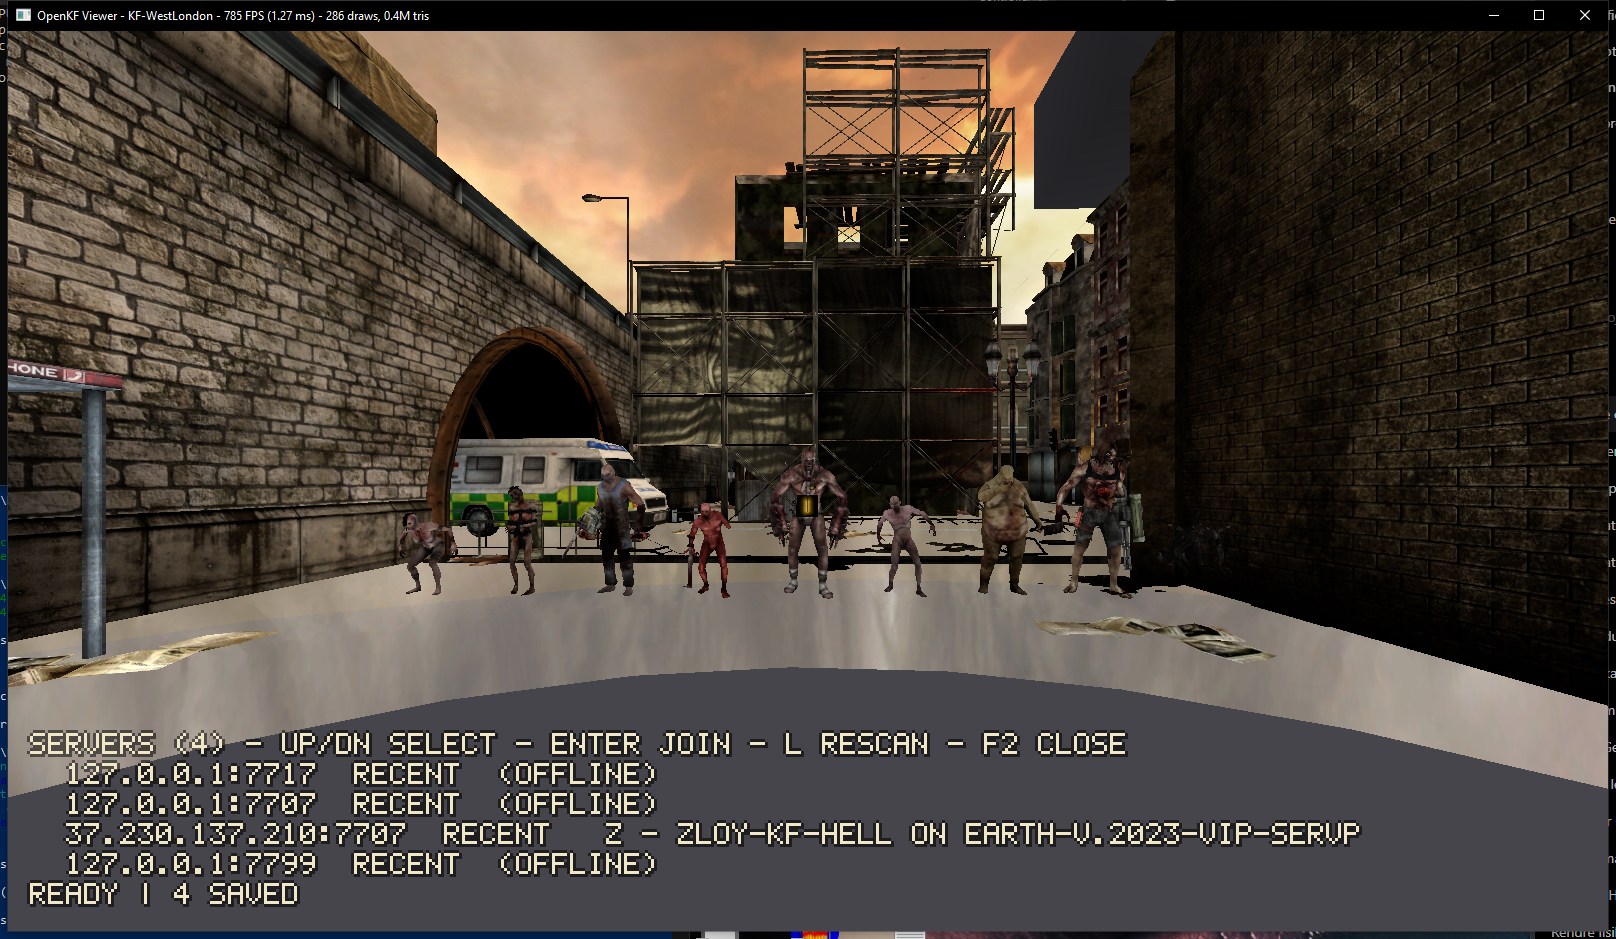
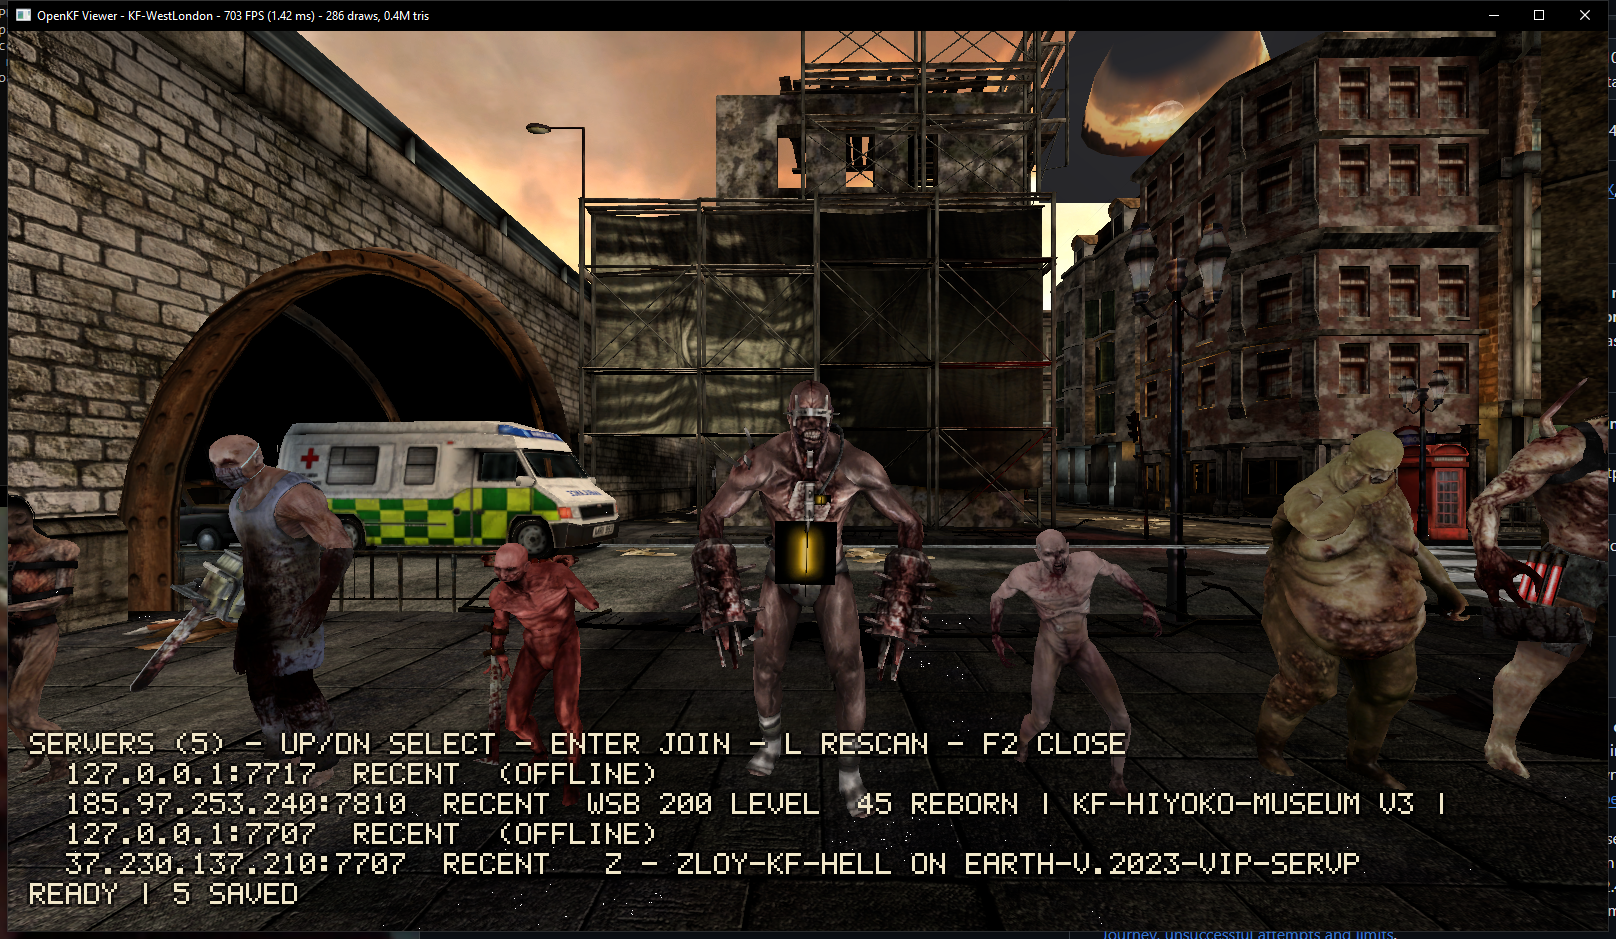
Fix BSP floors culled by winding (Newell per-node alignment), refresh screenshots

diff --git a/crates/openkf-viewer/src/scene.rs b/crates/openkf-viewer/src/scene.rs
@@ -161,6 +161,9 @@ pub fn load_scene(kf_dir: &Path, rom: &Path, bc_supported: bool, zeds: bool, poo
         }
         let (tw, th) = tex.map(|t| tt.sizes[t]).unwrap_or((256, 256));
         // Positions + lightmap UVs from the render section when available.
+        // NOTE: the section's stored diffuse `uv` is NOT texel-scale (0..1-ish
+        // on most nodes, garbage-scale on others), so diffuse UVs always come
+        // from the surf-vector recompute below.
         let mut lm_index = -1;
         let verts: Vec<([f32; 3], [f32; 2])> = match model.sections.get(n.i_section.max(0) as usize).filter(|_| use_sections && n.i_section >= 0) {
             Some(sec) if (n.i_first_vertex.max(0) as usize + n.num_vertices as usize) <= sec.vertices.len() => {
@@ -197,8 +200,37 @@ pub fn load_scene(kf_dir: &Path, rom: &Path, bc_supported: bool, zeds: bool, poo
             let uv = model.texel_uv(s, p);
             e.0.push(Vertex { pos: conv(p), nrm: normal, uv: [uv[0] / tw as f32, uv[1] / th as f32], light, lm_uv: lm });
         }
+        // Section vertex order varies per node (additive vs subtractive brushes),
+        // so align the fan winding with the SURF normal (the node's split
+        // plane may point either way); otherwise whole floors are
+        // backface-culled and the sky shows through.
+        let facing = model.vectors.get(s.v_normal as usize).map(|v| conv(*v)).unwrap_or(normal);
+        // Newell's method over the whole polygon: robust even when the first
+        // fan triangle is degenerate (repeated/collinear verts), which a
+        // single-triangle test misreads (leaving floors culled).
+        let flip = if verts.len() >= 3 {
+            let mut n = [0.0f32; 3];
+            for i in 0..verts.len() {
+                let a = conv(verts[i].0);
+                let b = conv(verts[(i + 1) % verts.len()].0);
+                n[0] += (a[1] - b[1]) * (a[2] + b[2]);
+                n[1] += (a[2] - b[2]) * (a[0] + b[0]);
+                n[2] += (a[0] - b[0]) * (a[1] + b[1]);
+            }
+            n[0] * facing[0] + n[1] * facing[1] + n[2] * facing[2] < 0.0
+        } else {
+            false
+        };
+        if std::env::var_os("OPENKF_DEBUG").is_some() && normal[1] > 0.9 {
+            eprintln!("[debug] floor node: surf_n=[{:.2},{:.2},{:.2}] flip={flip} mat={}",
+                facing[0], facing[1], facing[2], map.format_full_name(s.material));
+        }
         for i in 1..verts.len() as u32 - 1 {
-            e.1.extend_from_slice(&[base, base + i, base + i + 1]);
+            if flip {
+                e.1.extend_from_slice(&[base, base + i + 1, base + i]);
+            } else {
+                e.1.extend_from_slice(&[base, base + i, base + i + 1]);
+            }
         }
     }
 
@@ -310,10 +342,40 @@ pub fn load_scene(kf_dir: &Path, rom: &Path, bc_supported: bool, zeds: bool, poo
 
     let t_resolve = t0.elapsed();
     if std::env::var_os("OPENKF_DEBUG").is_some() {
+        // Which node path feeds the renderer, and is the recompute degenerate?
+        let (mut sec_ok, mut fallback) = (0usize, 0usize);
+        let mut degen_mats: std::collections::HashMap<String, usize> = std::collections::HashMap::new();
+        for n in &model.nodes {
+            if n.num_vertices < 3 || n.i_surf < 0 { continue; }
+            let on_sec = use_sections && n.i_section >= 0 && model.sections.get(n.i_section as usize).map_or(false, |s| (n.i_first_vertex.max(0) as usize + n.num_vertices as usize) <= s.vertices.len());
+            if on_sec { sec_ok += 1; continue; }
+            fallback += 1;
+            let su = &model.surfs[n.i_surf as usize];
+            let st = n.i_vert_pool.max(0) as usize;
+            if let Some(vs) = model.verts.get(st..st + n.num_vertices as usize) {
+                let uvs: Vec<[f32; 2]> = vs.iter().filter_map(|v| model.points.get(v.p_vertex as usize).map(|&p| model.texel_uv(su, p))).collect();
+                let spread = uvs.iter().fold(0.0f32, |a, u| a.max((u[0] - uvs[0][0]).abs()).max((u[1] - uvs[0][1]).abs()));
+                if uvs.len() >= 3 && spread < 0.5 {
+                    *degen_mats.entry(map.format_full_name(su.material)).or_default() += 1;
+                }
+            }
+        }
+        eprintln!("[debug] nodes: section-path {sec_ok}, fallback-path {fallback}");
+        for (i, r) in tt.refs.iter().enumerate() {
+            eprintln!("[debug] tex[{i}] = {}", r.pkg().format_full_name(r.export as i32 + 1));
+        }
+        let mut dm: Vec<_> = degen_mats.into_iter().collect();
+        dm.sort_by_key(|a| std::cmp::Reverse(a.1));
+        for (m, c) in dm.iter().take(10) { eprintln!("[debug] degenerate-uv fallback nodes: {c}x {m}"); }
         let bsp_none = polys.iter().filter(|p| surf_tex[p.surf].is_none()).count();
         let mut blends: HashMap<String, usize> = HashMap::new();
         for t in surf_tex.iter().flatten() { *blends.entry(format!("{:?}", t.1)).or_default() += 1; }
         eprintln!("[debug] BSP surf blends: {blends:?}");
+        for (i, s) in model.surfs.iter().enumerate() {
+            if matches!(surf_tex[i].map(|t| t.1), Some(b) if b != crate::assets::Blend::Opaque) {
+                eprintln!("[debug] non-opaque surf {i}: {} -> {:?} flags {:08x}", map.format_full_name(s.material), surf_tex[i].map(|t| t.1), s.poly_flags);
+            }
+        }
         eprintln!("[debug] BSP polys without texture: {bsp_none}/{}", polys.len());
         let mut none_flags: HashMap<u32, usize> = HashMap::new();
         for p in &polys { if surf_tex[p.surf].is_none() { *none_flags.entry(model.surfs[p.surf].poly_flags).or_default() += 1; } }
@@ -336,12 +398,21 @@ pub fn load_scene(kf_dir: &Path, rom: &Path, bc_supported: bool, zeds: bool, poo
                     if tn.to_ascii_lowercase().contains("fire") || tn.to_ascii_lowercase().contains("glow") || tn.to_ascii_lowercase().contains("smoke") || tn.to_ascii_lowercase().contains("fx") {
                         eprintln!("[debug] mesh {} sec {si}: {mat} -> {tn} {b:?}", me.mesh.name);
                     }
+                    if !matches!(b, crate::assets::Blend::Opaque) {
+                        eprintln!("[debug] translucent mesh {} sec {si}: {mat} -> {tn} {b:?}", me.mesh.name);
+                    }
                 }
             }
         }
         for me in &meshes {
             let n = me.section_tex.iter().filter(|t| t.is_none()).count();
             if n > 0 { eprintln!("[debug] mesh {} : {n}/{} sections untextured, {} materials", me.mesh.name, me.section_tex.len(), me.mesh.materials.len()); }
+            let chans = me.mesh.uv_channels.len();
+            let short = me.mesh.uv_channels.first().map_or(true, |u| u.len() < me.mesh.positions.len());
+            if chans == 0 || short {
+                let placements = work.iter().filter(|(mi, _, _)| meshes[*mi].mesh.name == me.mesh.name).count();
+                eprintln!("[debug] mesh {} : uv_channels={chans} short={short} verts={} placements={placements}", me.mesh.name, me.mesh.positions.len());
+            }
         }
     }
 

diff --git a/crates/openkf-viewer/src/main.rs b/crates/openkf-viewer/src/main.rs
@@ -57,6 +57,7 @@ struct Args {
     play: bool,
     browse: bool,
     bench: usize,
+    pick: Option<(u32, u32)>,
 }
 
 fn parse_args() -> Args {
@@ -78,6 +79,7 @@ fn parse_args() -> Args {
         play: false,
         browse: false,
         bench: 0,
+        pick: None,
     };
     while let Some(x) = it.next() {
         match x.as_str() {
@@ -97,6 +99,11 @@ fn parse_args() -> Args {
             "--connect" => a.connect = Some(it.next().expect("--connect host:port")),
             "--browse" => a.browse = true,
             "--bench" => a.bench = it.next().expect("--bench <frames>").parse().unwrap(),
+            "--pick" => {
+                let s = it.next().expect("--pick <px,py>");
+                let (x, y) = s.split_once(',').expect("px,py");
+                a.pick = Some((x.parse().unwrap(), y.parse().unwrap()));
+            }
             "--auth" => a.auth = PathBuf::from(it.next().expect("--auth <capture>")),
             "--name" => a.name = it.next().expect("--name <player>"),
             "--no-ready" => a.ready = false,
@@ -207,6 +214,57 @@ fn device_for(adapter: &wgpu::Adapter) -> (wgpu::Device, wgpu::Queue) {
 }
 
 // ------------------------------------------------------------------ headless
+/// Diagnostic: raycast from the camera through screen pixel (px,py) and print
+/// the nearest batch (index, blend, lightmap, uv, position). `--pick px,py`.
+fn pick_pixel(scene: &scene::Scene, cam: &Camera, w: u32, h: u32, px: u32, py: u32) {
+    let aspect = w as f32 / h.max(1) as f32;
+    let inv = cam.view_proj(aspect).inverse();
+    let ndc = glam::Vec4::new(px as f32 / w as f32 * 2.0 - 1.0, 1.0 - py as f32 / h as f32 * 2.0, 0.0, 1.0);
+    let near = inv * ndc;
+    let ro = cam.pos;
+    let rd = (glam::Vec3::new(near.x, near.y, near.z) / near.w - ro).normalize();
+    let mut hits: Vec<(f32, usize, [f32; 2], [f32; 2], [f32; 3])> = Vec::new();
+    for (bi, b) in scene.batches.iter().enumerate() {
+        for tri in b.indices.chunks_exact(3) {
+            let p = |i: u32| glam::Vec3::from(b.vertices[i as usize].pos);
+            let (v0, v1, v2) = (p(tri[0]), p(tri[1]), p(tri[2]));
+            let e1 = v1 - v0;
+            let e2 = v2 - v0;
+            let pv = rd.cross(e2);
+            let det = e1.dot(pv);
+            if det.abs() < 1e-12 { continue; }
+            let inv_det = 1.0 / det;
+            let tv = ro - v0;
+            let u = tv.dot(pv) * inv_det;
+            if !(0.0..=1.0).contains(&u) { continue; }
+            let qv = tv.cross(e1);
+            let v = rd.dot(qv) * inv_det;
+            if !(0.0..=1.0).contains(&v) || u + v > 1.0 { continue; }
+            let t = e2.dot(qv) * inv_det;
+            if t < 0.0 { continue; }
+            let w0 = 1.0 - u - v;
+            let a = &b.vertices[tri[0] as usize];
+            let bb = &b.vertices[tri[1] as usize];
+            let c = &b.vertices[tri[2] as usize];
+            let uv = [w0 * a.uv[0] + u * bb.uv[0] + v * c.uv[0], w0 * a.uv[1] + u * bb.uv[1] + v * c.uv[1]];
+            let lm = [w0 * a.lm_uv[0] + u * bb.lm_uv[0] + v * c.lm_uv[0], w0 * a.lm_uv[1] + u * bb.lm_uv[1] + v * c.lm_uv[1]];
+            let hit = (ro + rd * t).to_array();
+            if !hits.iter().any(|(ht, hbi, _, _, _)| *hbi == bi && (*ht - t).abs() < 1.0) {
+                hits.push((t, bi, uv, lm, hit));
+            }
+        }
+    }
+    hits.sort_by(|a, b| a.0.total_cmp(&b.0));
+    hits.truncate(6);
+    if hits.is_empty() {
+        println!("[Pick] ({px},{py}) no hit");
+    }
+    for (t, bi, uv, lm, hit) in hits {
+        let b = &scene.batches[bi];
+        println!("[Pick] ({px},{py}) batch {bi} blend={:?} tex={:?} lightmap={} t={t:.0} uv=[{:.2},{:.2}] lm=[{:.3},{:.3}] at [{:.0},{:.0},{:.0}] tris={}",
+            b.blend, b.texture, b.lightmap, uv[0], uv[1], lm[0], lm[1], hit[0], hit[1], hit[2], b.indices.len() / 3);
+    }
+}
 fn screenshot(args: &Args, rp: Option<&replay::Replay>, live: Option<&std::sync::Arc<std::sync::Mutex<live_view::Shared>>>, live_pool: Vec<(String, String, usize)>) {
     let inst = instance();
     let adapter = pollster::block_on(inst.request_adapter(&wgpu::RequestAdapterOptions {
@@ -377,6 +435,9 @@ fn screenshot(args: &Args, rp: Option<&replay::Replay>, live: Option<&std::sync:
     });
     let view = target.create_view(&Default::default());
     let cam = cam_override.unwrap_or_else(|| initial_camera(&scene, args));
+    if let Some((px, py)) = args.pick {
+        pick_pixel(&scene, &cam, w, h, px, py);
+    }
     let t = Instant::now();
     let verts = zeds::skin_all(&mut scene.actors, args.time);
     let skin_ms = t.elapsed().as_secs_f64() * 1e3;

diff --git a/crates/openkf-package/examples/model_dump.rs b/crates/openkf-package/examples/model_dump.rs
@@ -9,4 +9,47 @@ fn main() {
     println!("{} nodes, {} sections ({} verts), {} lightmaps {:?}, used idx {:?}, nodes out of section range: {bad_nodes}",
         m.nodes.len(), m.sections.len(), m.sections.iter().map(|s| s.vertices.len()).sum::<usize>(), m.lightmaps.len(),
         m.lightmaps.iter().map(|l| (l.width, l.dxt5)).collect::<std::collections::BTreeSet<_>>(), used);
+    for (i, s) in m.sections.iter().enumerate().take(12) {
+        let (mut mnx, mut mxx, mut mny, mut mxy) = (f32::MAX, f32::MIN, f32::MAX, f32::MIN);
+        for v in &s.vertices {
+            mnx = mnx.min(v.lightmap_uv[0]); mxx = mxx.max(v.lightmap_uv[0]);
+            mny = mny.min(v.lightmap_uv[1]); mxy = mxy.max(v.lightmap_uv[1]);
+        }
+        println!("sec {i}: lm_tex={} n={} lmuv x=[{mnx:.3},{mxx:.3}] y=[{mny:.3},{mxy:.3}]", s.light_map_texture, s.vertices.len());
+    }
+    let (mut aux, mut aux2, mut auy, mut auy2) = (f32::MAX, f32::MIN, f32::MAX, f32::MIN);
+    for s in m.sections.iter() { for v in &s.vertices {
+        aux = aux.min(v.uv[0]); aux2 = aux2.max(v.uv[0]); auy = auy.min(v.uv[1]); auy2 = auy2.max(v.uv[1]);
+    } }
+    println!("section diffuse uv global: x=[{aux:.1},{aux2:.1}] y=[{auy:.1},{auy2:.1}]");
+    // Floor nodes (plane normal ~ +Z): compare stored section UVs vs texel_uv recompute.
+    let mut shown = 0;
+    for (ni, n) in m.nodes.iter().enumerate() {
+        if n.num_vertices < 3 || n.i_surf < 0 || n.plane[2] < 0.9 { continue; }
+        let su = &m.surfs[n.i_surf as usize];
+        let sec_ok = n.i_section >= 0 && m.sections.get(n.i_section as usize).map_or(false, |s| (n.i_first_vertex.max(0) as usize + n.num_vertices as usize) <= s.vertices.len());
+        let mut stored = Vec::new();
+        let mut recomp = Vec::new();
+        if sec_ok {
+            let s = &m.sections[n.i_section as usize];
+            for v in &s.vertices[n.i_first_vertex as usize..n.i_first_vertex as usize + n.num_vertices as usize] {
+                stored.push(v.uv);
+            }
+        }
+        let st = n.i_vert_pool.max(0) as usize;
+        if let Some(vs) = m.verts.get(st..st + n.num_vertices as usize) {
+            for v in vs.iter().filter_map(|v| m.points.get(v.p_vertex as usize)) {
+                recomp.push(m.texel_uv(su, *v));
+            }
+        }
+        let spread = |u: &[[f32; 2]]| u.iter().fold(0.0f32, |a, x| a.max((x[0] - u[0][0]).abs()).max((x[1] - u[0][1]).abs()));
+        if shown < 14 {
+            println!("node {ni}: sec={} mat={} p_base={} vtu={} vtv={} stored_n={} stored_spread={:.1} recomp_n={} recomp_spread={:.1} stored0={:?}",
+                n.i_section, pkg.format_full_name(su.material), su.p_base, su.v_texture_u, su.v_texture_v,
+                stored.len(), if stored.is_empty() { -1.0 } else { spread(&stored) },
+                recomp.len(), if recomp.is_empty() { -1.0 } else { spread(&recomp) },
+                stored.first());
+            shown += 1;
+        }
+    }
 }

diff --git a/docs/HANDOFF.md b/docs/HANDOFF.md
@@ -1,3 +1,23 @@
+# Handoff (2026-10-30, night — v1.10.0 in progress)
+
+## Texture fix (white floors): root cause + fix
+
+- Symptom: near street in WestLondon rendered white (sky showing through);
+  also black patches. Textures were fine (0/2302 BSP polys missing).
+- Diagnosis path: albedo-only render still white -> UV-grid viz ->
+  no-sky render proved a real hole -> `--pick` raycast found the street
+  batch behind a transparent `voidtex` plane -> no-cull render showed the
+  street -> front-cull isolated winding. The fan triangulation assumed one
+  vertex order; order varies per node, and some fans start with degenerate
+  tris that fool a single-triangle test.
+- Fix (`scene.rs`): per-node fan winding aligned with the surf normal via
+  Newell's method over the whole polygon. Screenshots refreshed.
+- Note: section stored diffuse UVs are NOT texel-scale (0..1-ish, some
+  garbage) — keep using the surf-vector `texel_uv` recompute. Documented
+  in code.
+
+---
+
 # Handoff (2026-10-30, late night — v1.9.0 done)
 
 ## Done this session (v1.9.0)

diff --git a/CHANGELOG.md b/CHANGELOG.md
@@ -2,6 +2,23 @@
 
 All notable changes to OpenKF. Dates are 2026.
 
+## Unreleased (toward v1.10.0)
+
+### Fixed
+- **BSP floors/walls no longer vanish**: section vertex order varies per
+  node (additive vs subtractive brushes) and some fans start with
+  degenerate triangles, so whole streets were backface-culled and the sky
+  showed through (the "white floor" reports). Fan winding is now aligned
+  per node with the surf normal using Newell's method. Verified on
+  KF-WestLondon, KF-Manor and KF-Offices; screenshots refreshed.
+
+### Added
+- `--pick px,py` diagnostic: raycasts through a screen pixel and prints
+  the batch stack (blend, texture, lightmap, UVs). Used to find the
+  culled street batches.
+- More `OPENKF_DEBUG` scene diagnostics (node paths, texture index table,
+  non-opaque surfs, translucent mesh sections, floor winding).
+
 ## v1.9.0 — Articulated ragdolls, decals, in-game browser, internet list (October 30)
 
 ### Added
